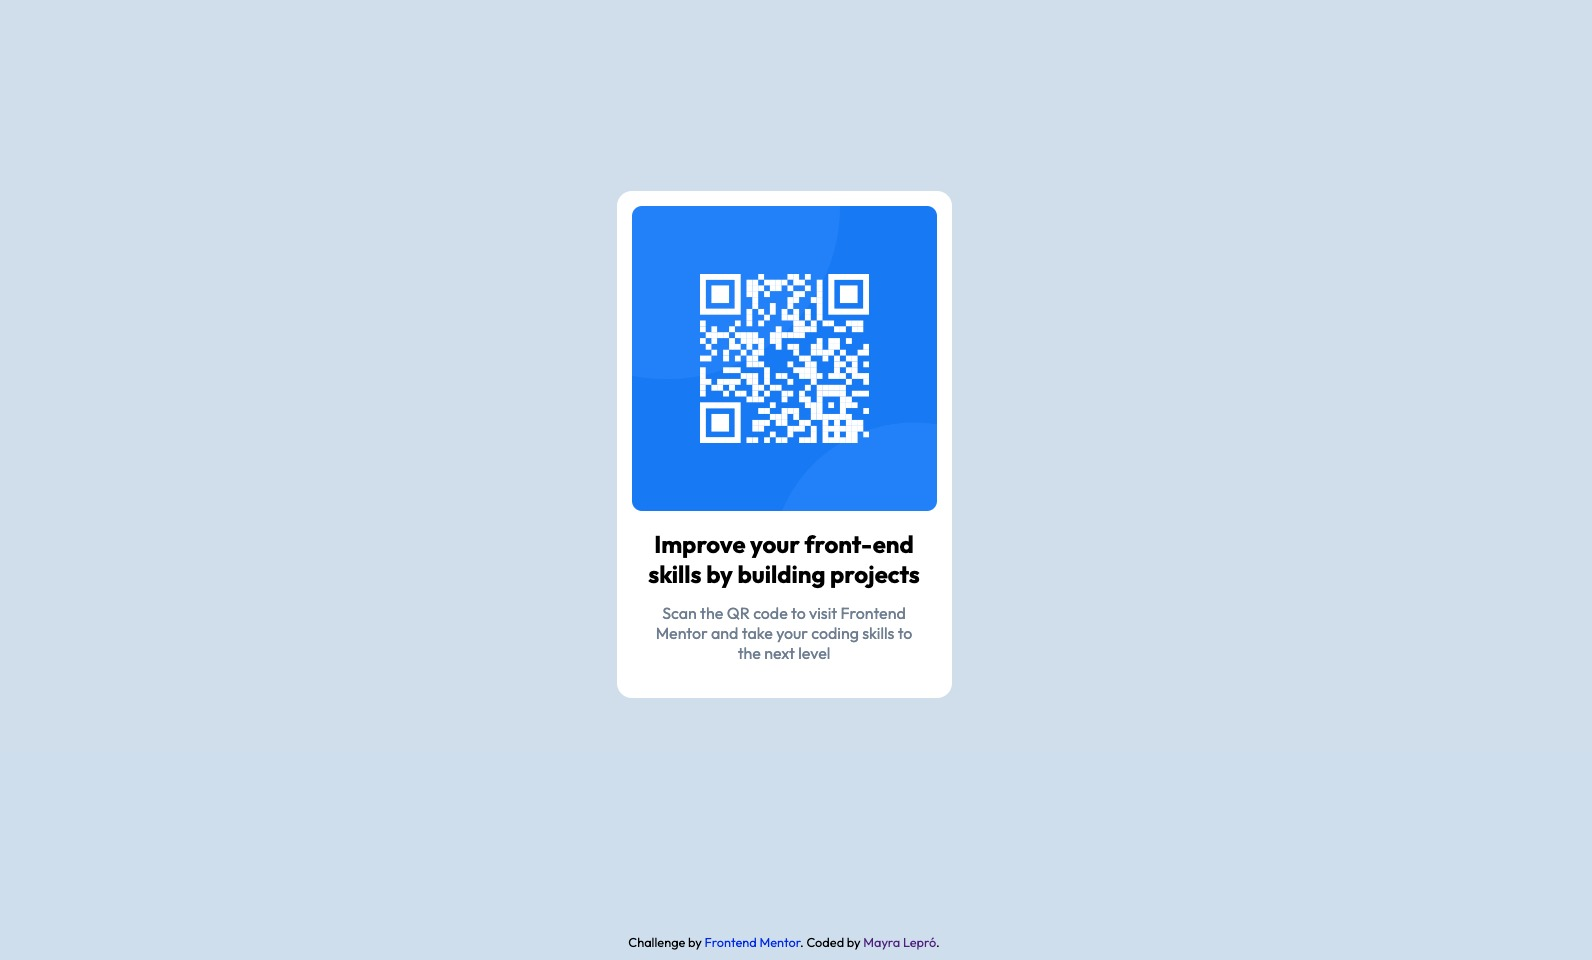
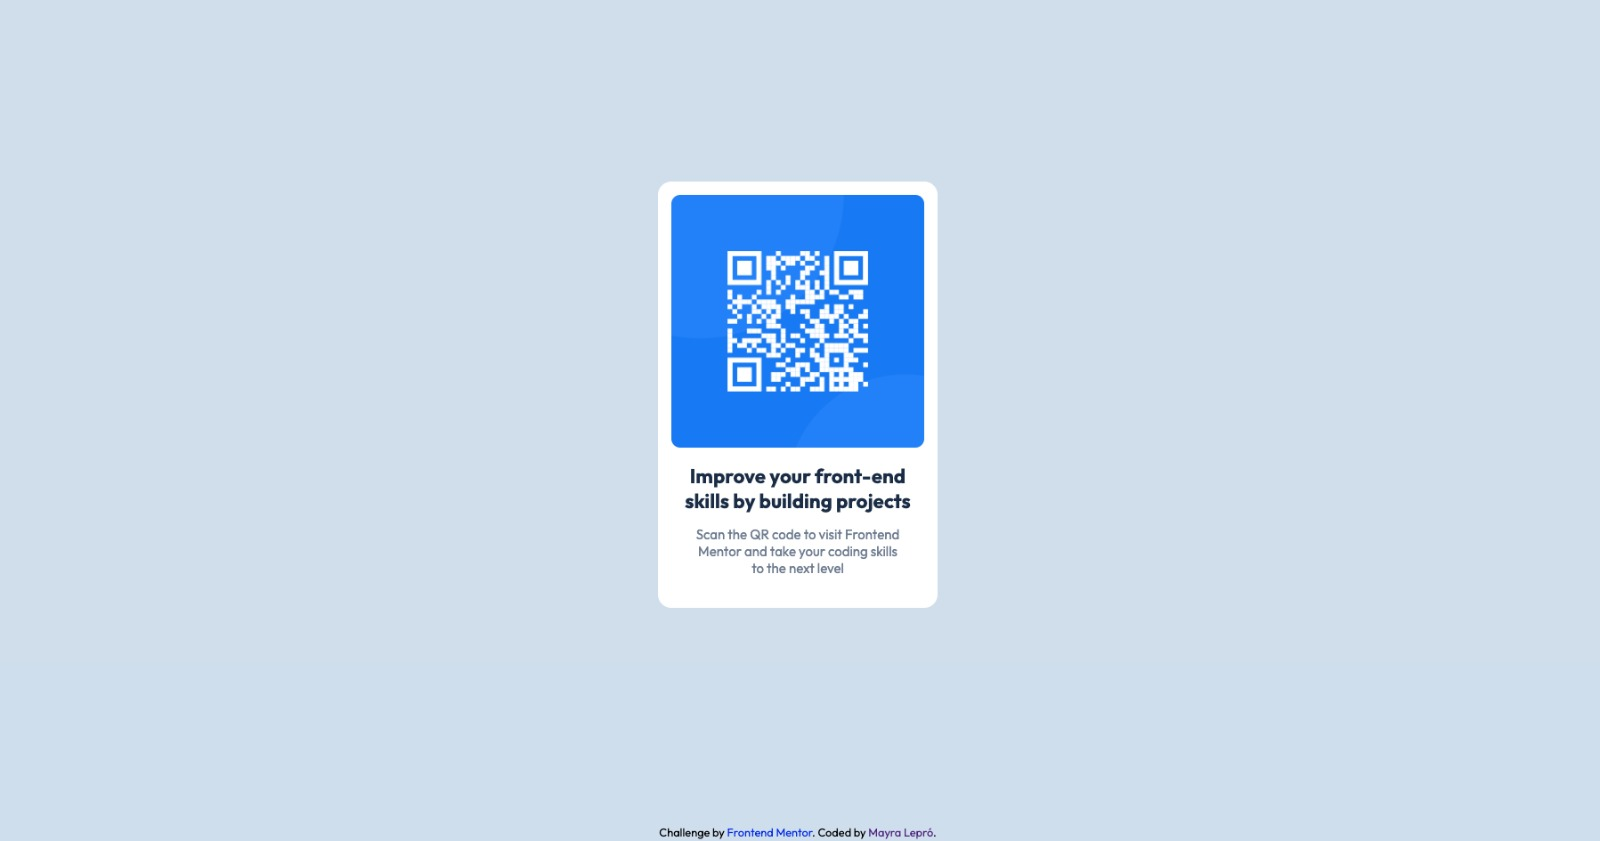
Added CSS Variables

Changed region(s): [[0.3693, 0.1855, 0.6156, 0.742], [0.4001, 0.9584, 0.5848, 1.0]]

diff --git a/css/styles.css b/css/styles.css
@@ -1,10 +1,17 @@
+:root {
+    --white: hsl(0, 0%, 100%);
+    --lightgray: hsl(212, 45%, 89%);
+    --grayishblue: hsl(220, 15%, 55%);
+    --darkblue: hsl(218, 44%, 22%);
+}
+
 * {
     margin: 0px;
     padding: 0px;
 }
 
 body {
-    background-color: hsl(212, 45%, 89%);
+    background-color: var(--lightgray);
     font-family: 'Outfit', sans-serif;
     display: flex;
     justify-content: center;
@@ -12,8 +19,6 @@ body {
 
 
 /* QR Card */
-
-
 
 .container {
     width: 314px;
@@ -33,7 +38,7 @@ body {
 .qr-card {
     text-align: center;
     padding: 15px;
-    background-color: hsl(0, 0%, 100%);
+    background-color: var(--white);
     border-radius: 15px;
 
 }
@@ -52,12 +57,13 @@ body {
     font-size: 1.4rem;
     text-align: center;
     padding: 14px;
+    color: var(--darkblue);
 }
 
 .text2 {
     margin-left: 25px;
     margin-right: 25px;
-    color: hsl(220, 15%, 55%);
+    color: var(--grayishblue);
     font-size: 15px;
     font-style: center;
     text-align: center;
@@ -75,7 +81,6 @@ footer {
 .footer {
     position: fixed;
     display: block;
-    padding-top: 50px;
     left: 0;
     bottom: 10px;
     width: 100%;

diff --git a/README.md b/README.md
@@ -25,4 +25,5 @@ The challenge was to build out this QR code component and get it looking as clos
 
 - Semantic HTML5 markup
 - CSS custom properties
+- CSS Variables
 - Flexbox
